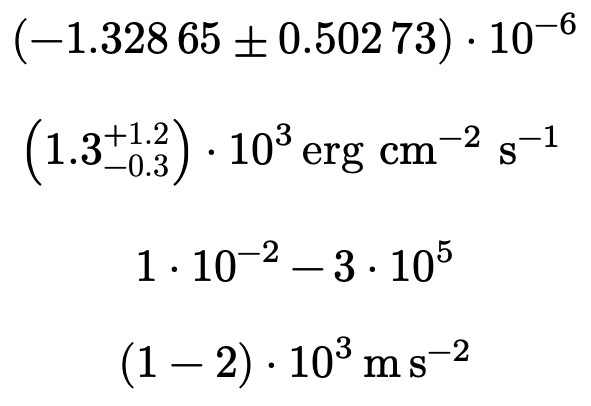
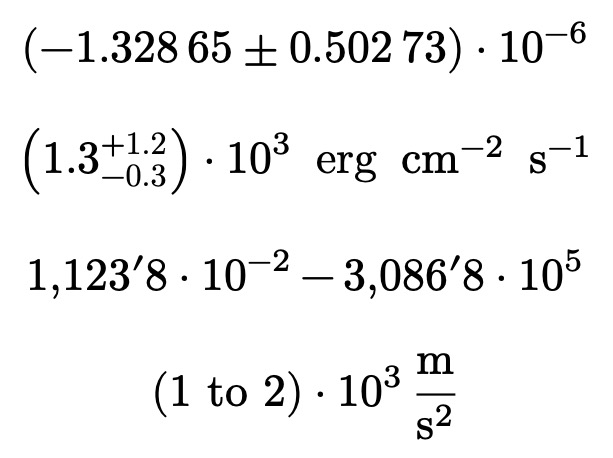
Update README with fraction formatting

diff --git a/README.md b/README.md
@@ -8,9 +8,9 @@
 #import "@preview/unify:0.3.0": num,qty,numrange,qtyrange
 
 $ num("-1.32865+-0.50273e-6") $
-$ qty("1.3+1.2-0.3e3", "erg/cm^2/s") $
-$ numrange("1e-2", "3e5") $
-$ qtyrange("1e3", "2e3", "meter per second squared") $
+$ qty("1.3+1.2-0.3e3", "erg/cm^2/s", space: "#h(2mm)") $
+$ numrange("1,1238e-2", "3,0868e5", thousandsep: "'") $
+$ qtyrange("1e3", "2e3", "meter per second squared", per: "/", delimiter: "\"to\"") $
 ```
 <img src="examples/overview.jpg" width="300">
 
@@ -27,7 +27,7 @@ Parentheses are automatically set as necessary. Use `thousandsep` to change the 
 
 
 ## `unit`
-`unit` takes the unit in words or in symbolic notation as its first argument. The value of `space` will be inserted between units if necessary.  
+`unit` takes the unit in words or in symbolic notation as its first argument. The value of `space` will be inserted between units if necessary. Setting `per` to `symbol` will format the number with exponents (i.e. `^(-1)`), and `fraction` or `/` using fraction.  
 Units in words have four possible parts:
 - `per` forms the inverse of the following unit.
 - A written-out prefix in the sense of SI (e.g. `centi`). This is added before the unit.
@@ -59,7 +59,7 @@ If you think there are units not included that are of interest for other users, 
 
 
 ## `qty`
-`qty` allows a `num` as the first argument following the same rules. The second argument is a unit. If `rawunit` is set to true, its value will be passed on to the result (note that the string passed on will be passed to `eval`, so add escaped quotes `\"` if necessary). Otherwise, it follows the rules of `unit`. The value of `space` will be inserted between units if necessary, and `thousandsep` between the thousands.  
+`qty` allows a `num` as the first argument following the same rules. The second argument is a unit. If `rawunit` is set to true, its value will be passed on to the result (note that the string passed on will be passed to `eval`, so add escaped quotes `\"` if necessary). Otherwise, it follows the rules of `unit`. The value of `space` will be inserted between units if necessary, `thousandsep` between the thousands, and `per` switches between exponents and fractions.  
 
 
 ## `numrange`
